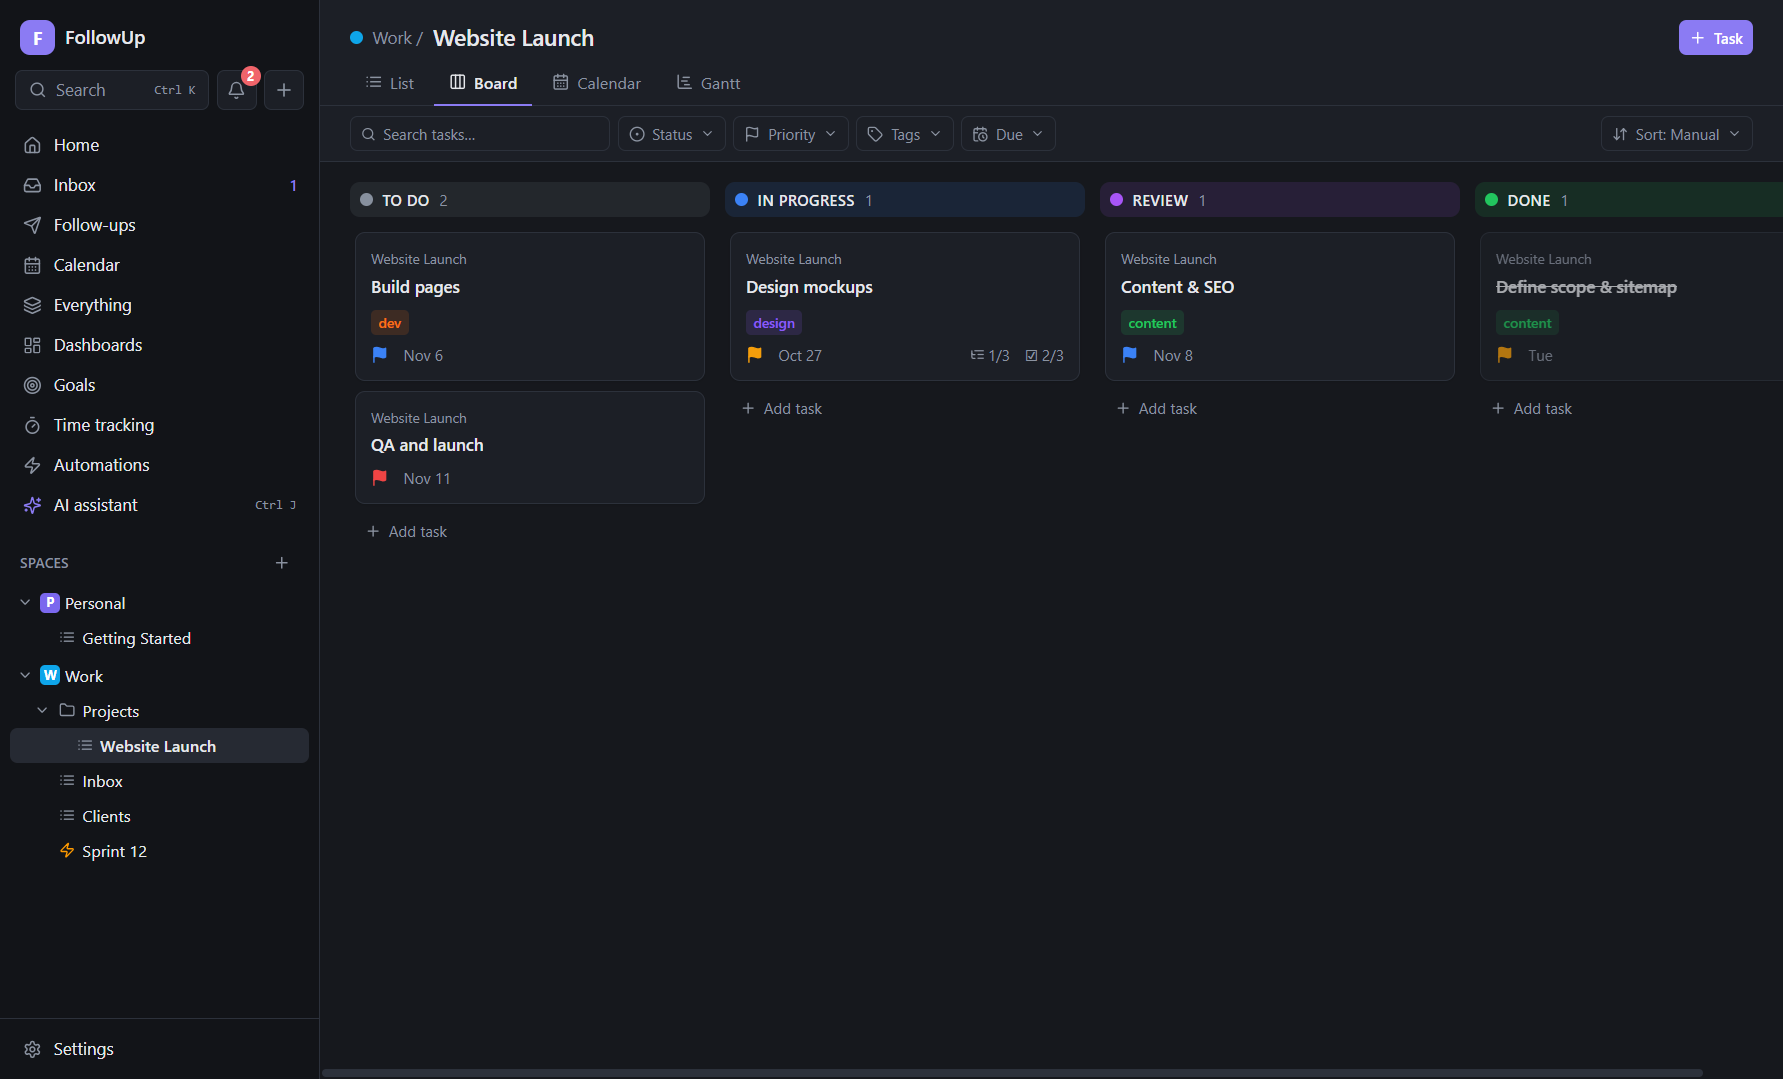
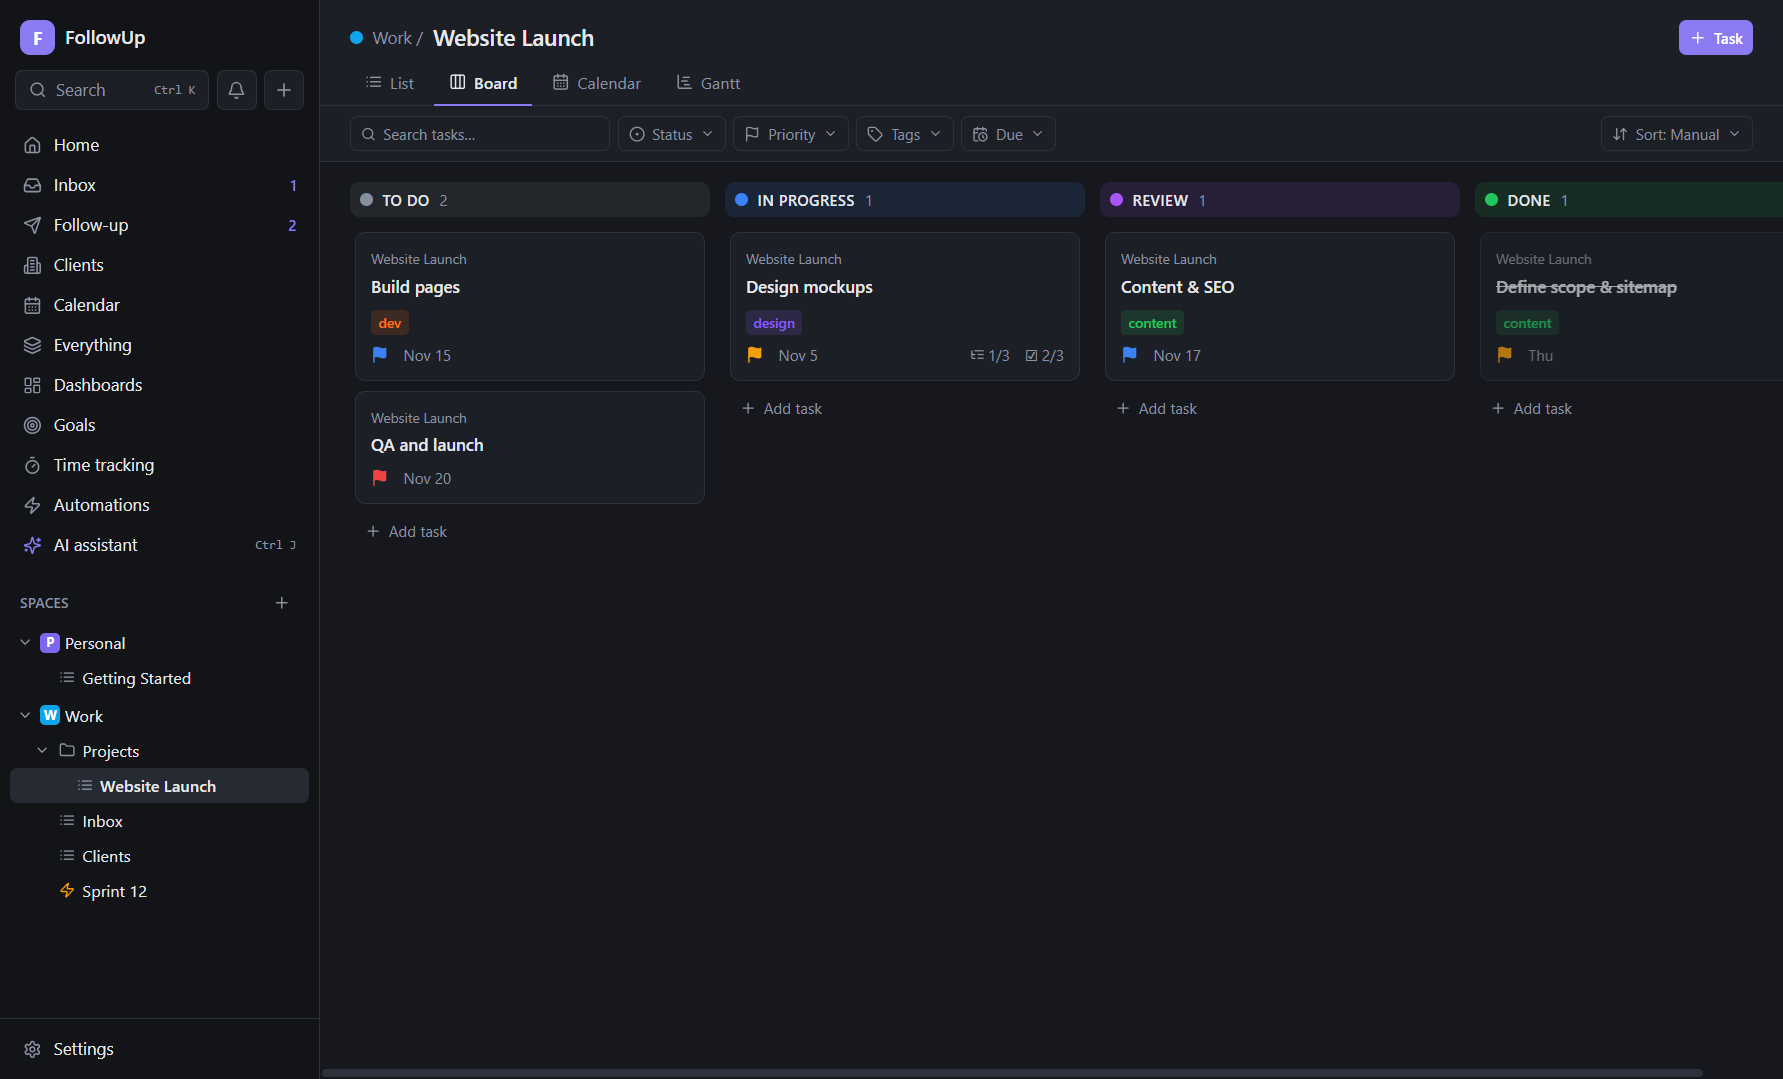
chore(release): 1.1.0 — Follow-up, Clients, every folder, resizable layout
Upgrade test from a real 1.0 database (migrations 9-10: mail locations,
retired sequences and rules, Clients). Conversations only you wrote in show
who you're waiting on. Fresh documentation screenshots (Follow-up, Clients),
changelog, project history, testing guide.

diff --git a/tests/upgrade.test.ts b/tests/upgrade.test.ts
@@ -1,0 +1,61 @@
+import { afterEach, describe, expect, it } from 'vitest'
+import { DatabaseSync } from 'node:sqlite'
+import { mkdtempSync, rmSync } from 'node:fs'
+import { tmpdir } from 'node:os'
+import { join } from 'node:path'
+import { MIGRATIONS } from '../src/main/db/migrations'
+import { all, closeDb, get, openDb } from '../src/main/db'
+import * as store from '../src/main/services/mail/store'
+import * as crm from '../src/main/services/crm'
+
+/** A database exactly as FollowUp 1.0 left it (migrations 1–8), with mail, a sequence and a rule. */
+function legacyDb(): string {
+  const dir = mkdtempSync(join(tmpdir(), 'followup-upgrade-'))
+  const file = join(dir, 'followup.db')
+  const db = new DatabaseSync(file)
+  db.exec('PRAGMA foreign_keys = ON')
+  for (let v = 0; v < 8; v++) db.exec(MIGRATIONS[v])
+  db.exec('PRAGMA user_version = 8')
+  const q = (sql: string, ...p: (string | number | null)[]) => db.prepare(sql).run(...p)
+  q(`INSERT INTO accounts (id, kind, name, email, config, secret, sync_state) VALUES ('a1', 'mail', 'Me', 'me@talent.example', '{}', '', ?)`, JSON.stringify({ INBOX: { uidValidity: '7', lastUid: 41 } }))
+  q(`INSERT INTO mail_threads (id, account_id, subject, norm_subject, last_message_at) VALUES ('t1', 'a1', 'Quote', 'quote', '2026-10-20T10:00:00.000Z')`)
+  q(`INSERT INTO mail_messages (id, account_id, thread_id, folder, uid, message_id, from_addr, to_addrs, subject, date, is_outbound, is_inbox)
+     VALUES ('m1', 'a1', 't1', 'INBOX', 41, '<q1@client.example>', 'ana@client.example', '[{"name":"","address":"me@talent.example"}]', 'Quote', '2026-10-20T10:00:00.000Z', 0, 1)`)
+  q(`INSERT INTO sequences (id, name, send_window, daily_cap) VALUES ('s1', 'Nudge', '{"days":[1,2,3,4,5],"start":"09:00","end":"17:00"}', 10)`)
+  q(`INSERT INTO sequence_enrollments (id, sequence_id, thread_id, account_id, to_addrs, status, current_step, next_run_at, enrolled_at)
+     VALUES ('e1', 's1', 't1', 'a1', 'ana@client.example', 'active', 0, '2026-10-30T09:00:00.000Z', '2026-10-20T10:00:00.000Z')`)
+  q(`INSERT INTO automations (id, name, enabled, trigger, conditions, actions, position) VALUES ('r1', 'Chase', 1, '{"type":"email_no_reply","days":3}', '[]', '[{"type":"start_sequence","sequence_id":"s1"}]', 1)`)
+  q(`INSERT INTO automations (id, name, enabled, trigger, conditions, actions, position) VALUES ('r2', 'Other', 1, '{"type":"task_created"}', '[]', '[{"type":"notify","title":"x"}]', 2)`)
+  db.close()
+  return dir
+}
+
+let dir = ''
+afterEach(() => {
+  closeDb()
+  if (dir) rmSync(dir, { recursive: true, force: true })
+})
+
+describe('upgrading a 1.0 database', () => {
+  it('keeps mail where it was, stops sequences, switches off their rules and adds Clients', () => {
+    dir = legacyDb()
+    openDb(join(dir, 'followup.db'))
+    expect(get<{ user_version: number }>('PRAGMA user_version')!.user_version).toBe(MIGRATIONS.length)
+    // the message keeps its place on the server (no re-download at the first 1.1 sync)
+    expect(all('SELECT message_id, account_id, folder, uid FROM mail_locations')).toEqual([{ message_id: 'm1', account_id: 'a1', folder: 'INBOX', uid: 41 }])
+    expect(store.listThreads({ folder: 'inbox' }).map((t) => t.subject)).toEqual(['Quote'])
+    // nothing is sent automatically any more
+    expect(get<{ status: string; next_run_at: string | null; stopped_reason: string }>("SELECT status, next_run_at, stopped_reason FROM sequence_enrollments WHERE id = 'e1'")).toMatchObject({
+      status: 'stopped',
+      next_run_at: null,
+      stopped_reason: expect.stringMatching(/replaced by Follow-up/)
+    })
+    expect(all<{ id: string; enabled: number }>('SELECT id, enabled FROM automations ORDER BY id')).toEqual([
+      { id: 'r1', enabled: 0 },
+      { id: 'r2', enabled: 1 }
+    ])
+    // Clients are ready, with the default stages
+    expect(crm.listStages().map((s) => s.name)).toEqual(['Lead', 'Contacted', 'Meeting held', 'Proposal sent', 'Negotiation', 'Won', 'Lost', 'On hold'])
+    expect(crm.listClients()).toEqual([])
+  })
+})

diff --git a/src/main/services/mail/store.ts b/src/main/services/mail/store.ts
@@ -635,8 +635,8 @@ function decorate(
 ): MailThread[] {
   if (!rows.length) return []
   const ids = rows.map((r) => r.id)
-  const msgs = all<{ thread_id: string; from_name: string; from_addr: string; is_outbound: number; snippet: string; date: string }>(
-    `SELECT thread_id, from_name, from_addr, is_outbound, snippet, date FROM mail_messages WHERE thread_id IN (${marks(ids.length)}) ORDER BY date`,
+  const msgs = all<{ thread_id: string; from_name: string; from_addr: string; to_addrs: string; is_outbound: number; snippet: string; date: string }>(
+    `SELECT thread_id, from_name, from_addr, to_addrs, is_outbound, snippet, date FROM mail_messages WHERE thread_id IN (${marks(ids.length)}) AND is_draft < 2 ORDER BY date`,
     ...ids
   )
   const links = all<{ thread_id: string; task_id: string }>(`SELECT thread_id, task_id FROM email_task_links WHERE thread_id IN (${marks(ids.length)})`, ...ids)
@@ -646,6 +646,9 @@ function decorate(
     const mine = msgs.filter((m) => m.thread_id === r.id)
     const people = new Map<string, MailAddress>()
     for (const m of mine) people.set(m.from_addr, { name: m.is_outbound ? 'me' : m.from_name, address: m.from_addr })
+    // a conversation only you have written in: show who you wrote to
+    if (mine.every((m) => m.is_outbound))
+      for (const m of mine) for (const a of JSON.parse(m.to_addrs) as MailAddress[]) if (!people.has(a.address)) people.set(a.address, { name: a.name, address: a.address })
     return {
       id: r.id,
       account_id: r.account_id,

diff --git a/src/main/db/migrations.ts b/src/main/db/migrations.ts
@@ -6,7 +6,7 @@ const base = `id TEXT PRIMARY KEY,
   deleted_at TEXT`
 
 /** Each entry is applied once, in order; PRAGMA user_version tracks progress. */
-const MIGRATIONS: string[] = [
+export const MIGRATIONS: string[] = [
   `
   CREATE TABLE settings (key TEXT PRIMARY KEY, value TEXT NOT NULL);
 

diff --git a/CHANGELOG.md b/CHANGELOG.md
@@ -4,6 +4,37 @@ All notable changes to FollowUp are listed here. The format follows [Keep a Chan
 
 ## [Unreleased]
 
+## [1.1.0] - 2026-10-26
+
+### Added
+- **Follow-up in the Inbox.**
+  - **Reply needed:** someone has waited a working day for an answer from you or your team.
+  - **Waiting on them:** your email got no answer in 30 working hours.
+  - Weekends (non-working days) don't count. Replies from colleagues at your company domain count. Auto-replies, newsletters and robots are ignored.
+  - Open a conversation and the follow-up email is already written from the whole conversation (by AI when it's set up, a template otherwise). Edit it and click **Send follow-up**; nothing is ever sent without that click.
+  - Snooze, "No follow-up needed", a daily reminder, and **Settings → Follow-up** for company domains, working days and waiting times.
+- **Clients:** an Excel-like table of companies and their people.
+  - Columns: designation, phone, work email, stage, who answers, who acts on their side, who owns them on your team, next action and due date.
+  - **Log calls, WhatsApp chats, meetings** (in person, at their office, online) and **exhibitions**, with exactly which of their people and your team took part. A company's or person's history shows these together with all their emails.
+  - Add people **from your email** in one click.
+  - **Import** from Excel or CSV (with column matching and no duplicates); **export** to Excel or CSV.
+  - Editable stages, and your team.
+- **Every mail folder:** Drafts, Sent, Archive, Spam, Trash and your own folders. **Archive**, **Spam / Not spam**, **Delete / Restore**, **Delete forever** (from Spam or Trash) and **Move** work on the server too.
+- **Drafts:** **Save draft** in Compose keeps it in your server's Drafts folder (so it's on your phone too); edit or discard it later.
+- **Resizable layout:** drag to resize the sidebar, the Inbox's folder list, email list and reading pane, the task panel, and the columns of the List view and the Clients table. Widths are remembered; double-click an edge to reset it.
+- Automation trigger **"An email needs follow-up"**; AI assistant tools to list follow-ups, find a client and log a call or meeting (with your approval).
+
+### Changed
+- **Follow-up sequences were removed** and replaced by the Follow-up view. Sequences that were running stop when you update, and automation rules that started sequences are switched off. Email templates stay (Compose → Insert template).
+- A message that is in several folders (for example Gmail labels) is stored and downloaded once.
+- Messages you delete or move on another device disappear here at the next sync.
+
+### Fixed
+- Replying to someone whose name contains a comma (for example "Lima, Ana") no longer fails with "not a valid email address".
+
+### Security
+- Recipients are read by FollowUp itself (quotes and brackets respected) and handed to the mail library as plain addresses, so a crafted sender name can never add a hidden recipient to your reply.
+
 ## [1.0.1] - 2026-10-24
 
 ### Changed
@@ -76,7 +107,8 @@ The first complete version, built in six phases:
 - **Phase 5, AI:** the assistant (Claude, OpenAI, Ollama) with approval cards, triage, Quick add, summaries, weekly review.
 - **Phase 6, integrations and release:** Slack and Teams, Sign in with Google/Microsoft, the Windows installer, auto-update, `.ics` export.
 
-[Unreleased]: https://github.com/miller-hack/FollowUp/compare/v1.0.1...HEAD
+[Unreleased]: https://github.com/miller-hack/FollowUp/compare/v1.1.0...HEAD
+[1.1.0]: https://github.com/miller-hack/FollowUp/releases/tag/v1.1.0
 [1.0.1]: https://github.com/miller-hack/FollowUp/releases/tag/v1.0.1
 [1.0.0]: https://github.com/miller-hack/FollowUp/releases/tag/v1.0.0
 [0.6.1]: https://github.com/miller-hack/FollowUp/blob/main/docs/developer/project-history.md#20-hardening-release-061-full-code-review

diff --git a/docs/developer/project-history.md b/docs/developer/project-history.md
@@ -489,3 +489,17 @@ The first full release. Its problems were found on a real installation of 0.6.1;
   - `npm audit`: 0 advisories.
 
 Still open: code signing. It needs a certificate, or an Azure Trusted Signing account, in the publisher's name; until then Windows SmartScreen shows a warning on first install.
+
+## 22. Release 1.0.1 — account setup
+
+Real users couldn't add accounts. Adding an account now starts from the address: the provider and servers are detected from well-known domains, MX records (Google Workspace, Microsoft 365, …), autoconfig and common host names, and only the needed sign-in or password is asked for, with the connection tested first ([ADR-013](../decisions/013-mail-provider-detection.md)). Built-in Google/Microsoft sign-in IDs can be supplied at build time.
+
+## 23. Release 1.1.0 — Follow-up, Clients, every folder
+
+Designed with the maintainer from their team's way of working (spec in the maintainer's notes; decisions in [ADR-014 to 016](../decisions/README.md)):
+- **Follow-up in the Inbox** replaces sequences. *Reply needed* and *Waiting on them* are counted in working hours, teammates' replies count, and an AI- or template-written follow-up waits for approval.
+- **Clients:** companies, people, stages, team, logged calls, chats, meetings and events with who took part, a history merged with emails, suggestions from email, and Excel/CSV import and export.
+- **Every server folder**, stored once per message with all its locations; server-side archive, spam, delete, restore and move; server drafts.
+- **Resizable** sidebar, Inbox panes, task panel and table columns.
+- **Security:** recipient lists are parsed by FollowUp and passed as structured addresses (nodemailer addressparser advisories).
+- **Schema:** migrations 9 and 10. **Tests:** `followup`, `crm`, `detect` and `upgrade` test files; E2E steps for Follow-up, Clients, Spam and resizing.

diff --git a/docs/developer/testing.md b/docs/developer/testing.md
@@ -27,7 +27,11 @@ beforeEach(() => {
 | `tasks.test.ts` | Spaces, lists and statuses, tasks and subtasks, recurrence, dates |
 | `phase2.test.ts` | Time tracking, goals, sprints, dashboards, notifications |
 | `automation.test.ts` | Event and time-based triggers, conditions, actions, scopes, loop safety, the job queue and dry runs |
-| `mail.test.ts` | Mail parsing, accounts and sync, sending, follow-up sequences, email automations, calendar (fake IMAP + SMTP) |
+| `mail.test.ts` | Mail parsing, accounts and sync, sending, email automations, calendar (fake IMAP + SMTP) |
+| `followup.test.ts` | Follow-up rules, working days, teammates, dismiss and snooze, drafts, the follow-up trigger; every server folder, moves, deletion elsewhere, delete forever, server drafts (ADR-014, 015) |
+| `crm.test.ts` | Clients: validation, stages, team, logged interactions and who took part, the merged history, suggestions from email, CSV and Excel import/export (ADR-016) |
+| `detect.test.ts` | Finding a mail provider from an address: known domains, MX, autoconfig, common host names (ADR-013) |
+| `upgrade.test.ts` | A real 1.0 database upgraded to the current schema: mail locations, retired sequences, Clients |
 | `ai.test.ts` | The Claude provider and assistant loop, keys, triage, AI automations, the OpenAI-compatible provider (fake servers) |
 | `phase6.test.ts` | Slack and Teams, Sign in with Google (OAuth, token refresh), `.ics` export (fake servers) |
 | `hardening.test.ts` | Security and robustness rules from the code review (ADR-001 to 008) |

diff --git a/docs/guide/06-email.md b/docs/guide/06-email.md
@@ -110,7 +110,7 @@ Each account shows its address and when it last synced (or the last error). It a
 Email is the most common way attacks arrive, so FollowUp is strict:
 
 - **Scripts, forms, embedded frames and event handlers are removed**, and the message is shown in a **sandboxed** frame that can't run code or navigate.
-- **Remote images are blocked** by default, because they can tell the sender that (and when) you opened the email. Click **Show images** for one message, or turn on **Settings → Email & follow-ups → Load remote images**.
+- **Remote images are blocked** by default, because they can tell the sender that (and when) you opened the email. Click **Show images** for one message, or turn on **Settings → Email → Load remote images**.
 - **Links** open in your normal browser.
 - **Pictures inside emails** (logos, signatures) are stored once per account as files, and shown from your disk.
 - **Attachments:**

diff --git a/docs/guide/14-troubleshooting.md b/docs/guide/14-troubleshooting.md
@@ -53,7 +53,7 @@ Your organisation only lets approved apps read mail. Ask your IT administrator t
 A Google OAuth client in *Testing* mode issues sign-ins that expire after 7 days. Publish or verify your OAuth app in Google Cloud, or use an app password account instead.
 
 **New mail doesn't appear.**
-- FollowUp must be running; it syncs every *N* minutes (**Settings → Email & follow-ups**).
+- FollowUp must be running; it syncs every *N* minutes (**Settings → Email**).
 - Click ⟳ in the Inbox.
 - Check the account card for an error.
 - Only **INBOX** and **Sent** are synced; mail that your provider files into other folders won't show.
